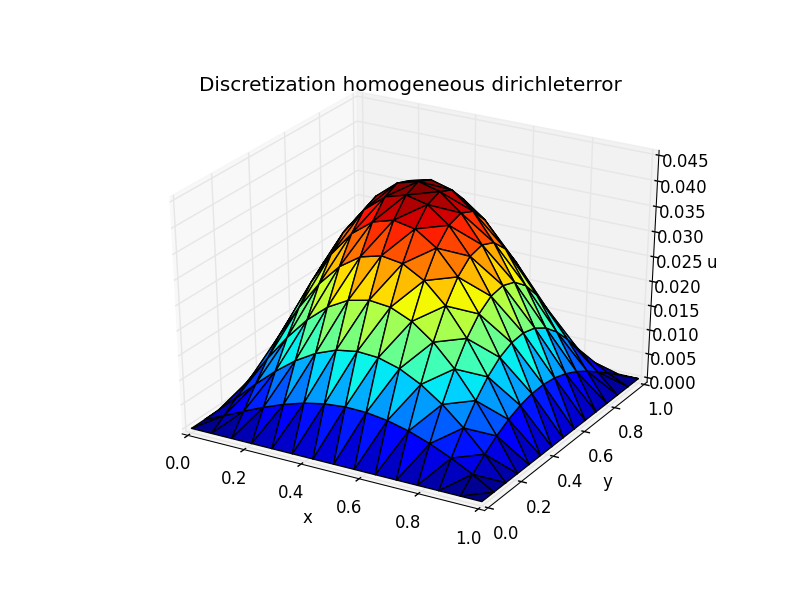
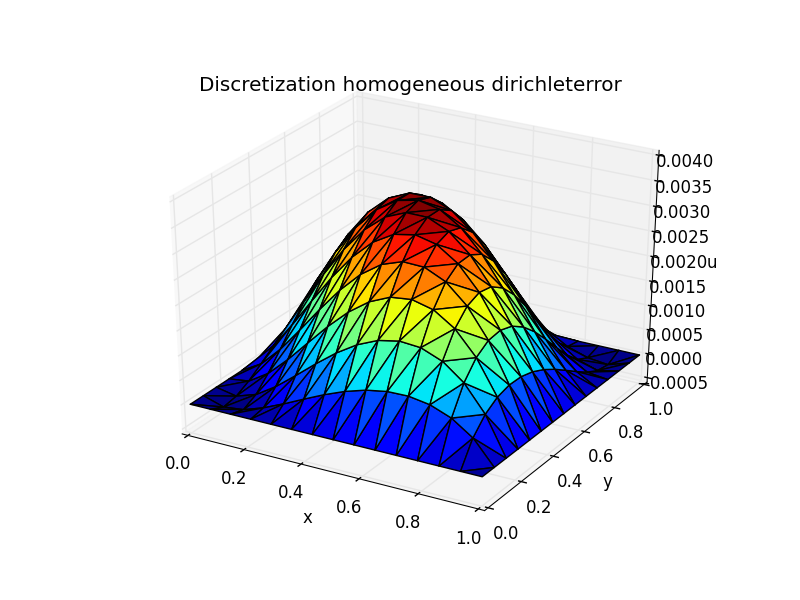
last correction

Changed region(s): [[0.2188, 0.24, 0.9062, 0.84]]

diff --git a/Series_7/FEM.py b/Series_7/FEM.py
@@ -183,8 +183,8 @@ def elemLoad(p,n,f):
   detJ=2*area(p)
   #Finally we obtain the element load vector
   Load=map(lambda i:sum(map(lambda j:wquad[j]*f(xtrans[j][0],xtrans[j][1])
-                 *Nshape(i,xref[j][0],xref[j][1])*np.abs(detJ),range(0,n))),range(0,3))
-  return 1./2*np.array(Load).reshape(3,1)
+                 *Nshape(i,xref[j][0],xref[j][1])*np.abs(detJ),range(0,len(wquad)))),range(0,3))
+  return 1./4*np.array(Load).reshape(3,1)
 
 
 # Now we gonna assemble the whole elements to obtain the total stiffenss
